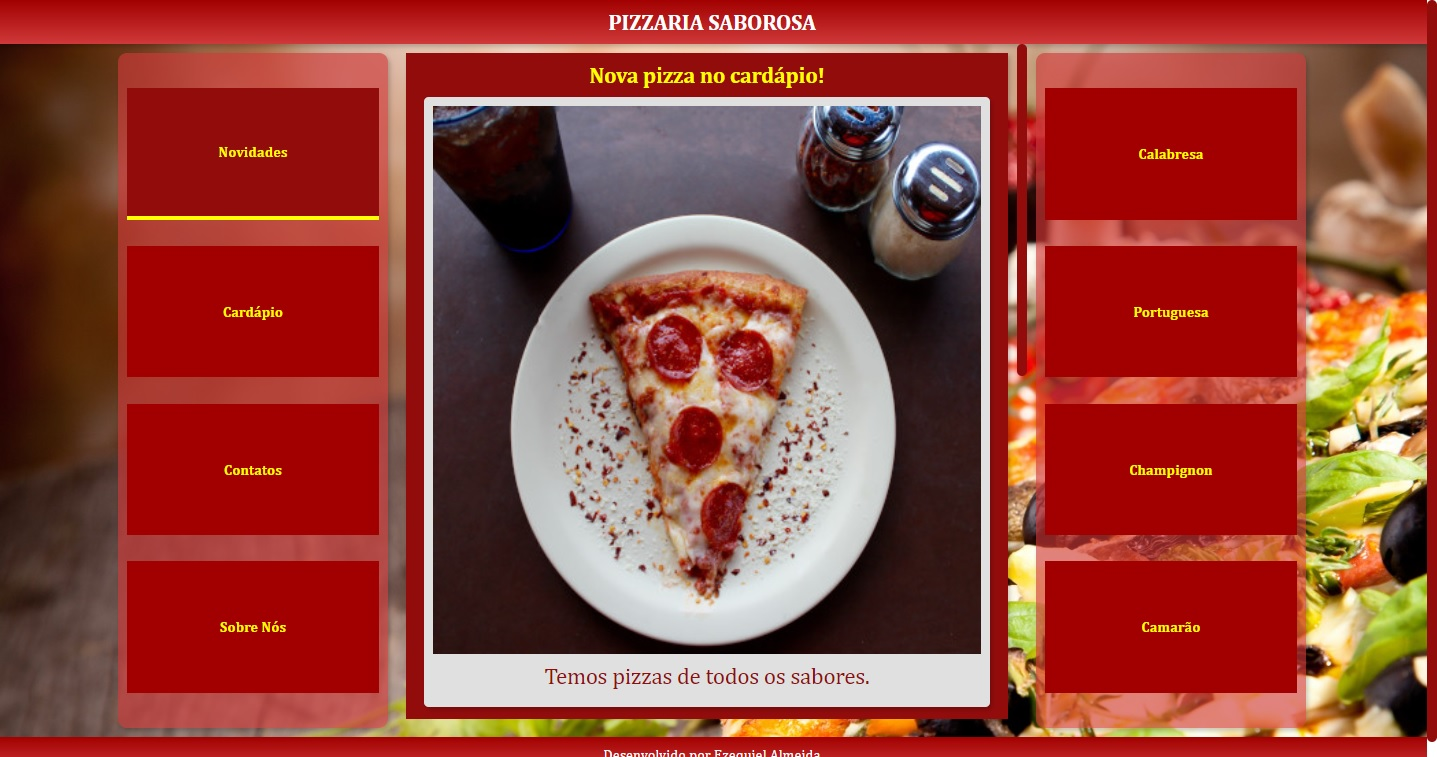
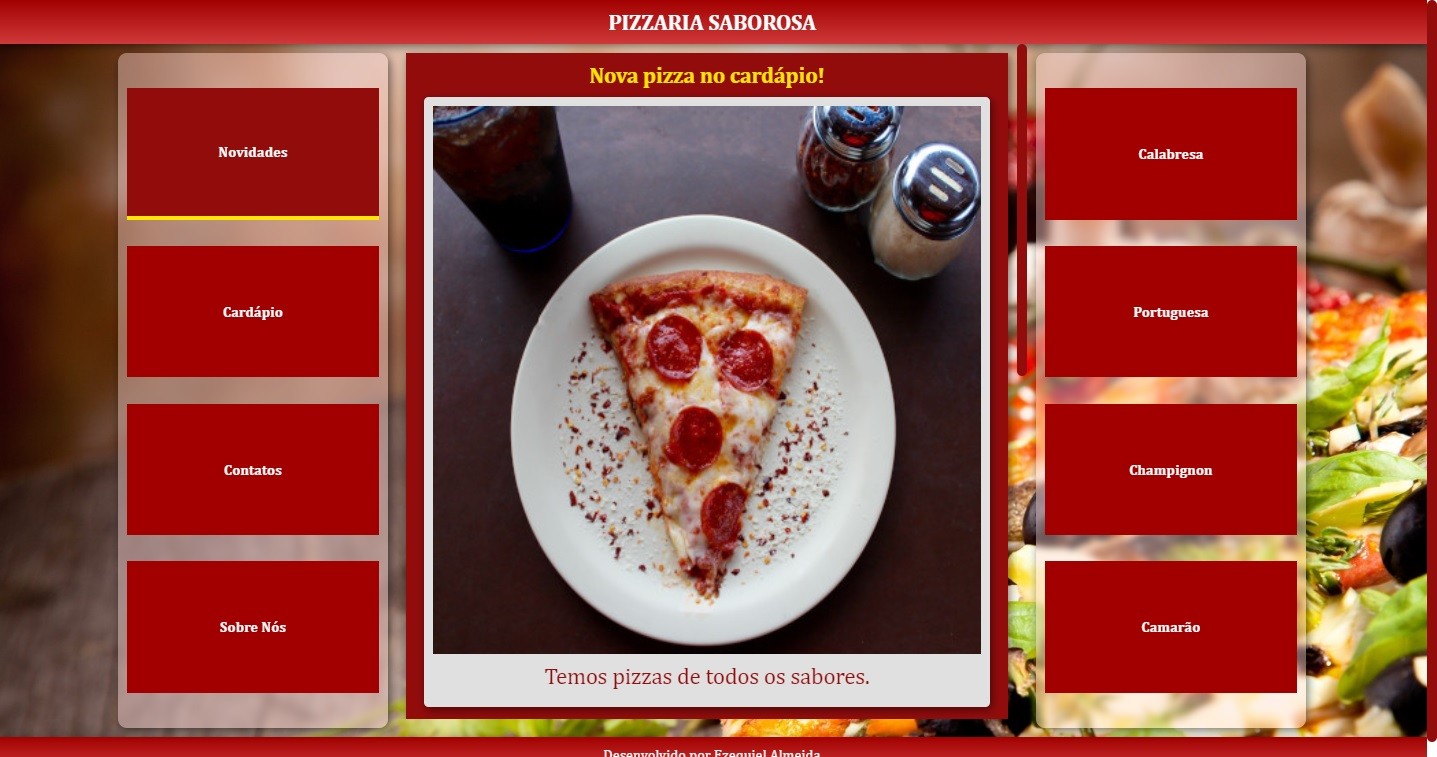
Smooth animation

diff --git a/assets/css/style.css b/assets/css/style.css
@@ -29,6 +29,7 @@
 }
 
 a {
+    transition-duration: .5s;
     font-weight: bold;
 }
 
@@ -57,6 +58,13 @@ header, footer {
     background-image: linear-gradient(to bottom, var(--color1), var(--color3));
 }
 
+header {
+    border-bottom: 10px solid var(--color4);
+    height: 50px;
+    border-bottom-left-radius: 50%;
+    border-bottom-right-radius: 50%;
+}
+
 header > *, footer > * {
     color: white;
 }
@@ -81,6 +89,7 @@ article > p {
     margin: 10px 0;
 }
 
+
 nav, article, section, aside {
     display: flex;
     flex-direction: column;
@@ -94,14 +103,14 @@ nav > *, aside > * {
     justify-content: center;
     background-color: var(--color1);
     padding: 5px;
-    height: 20%;
+    height: 100%;
     width: 100%;
 }
 
 div#scrollable {
     overflow-y: scroll;
     max-height: 750px;
-    width: 700px;
+    width: 50%;
 }
 
 nav, aside {
@@ -110,7 +119,12 @@ nav, aside {
     height: 750px;
     border-radius: 10px;
     backdrop-filter: blur(4px);
+    gap: 10px;
 }
+
+nav {
+    transition-duration: .5s;
+    }
 
 @media (max-width: 800px) {
 
@@ -125,19 +139,27 @@ nav, aside {
     }
 
     nav, aside {
-        background-color: var(--color3);
-        margin: 0;
         flex-direction: row;
         height: 50px;
         width: 100%;
+    }
+
+    aside {
+        margin: 0;
+        background-color: var(--color1);
+        border-bottom-left-radius: 0;
+        border-bottom-right-radius: 0;
         box-shadow: none;
-        border-top-left-radius: 0;
-        border-top-right-radius: 0;
     }
 
     nav > *, aside > * {
+        border-radius: 10px;
         width: 25%;
         height: 100%;
+    }
+
+    a:hover {
+        border: none;
     }
 
     div#scrollable {

diff --git a/index.html b/index.html
@@ -23,22 +23,22 @@
                 <h2>Nova pizza no cardápio!</h2>
                 <article>
                     <img src="assets/images/pizza2.jpg" alt="pizza">
-                    <p>Temos pizzas de todos os sabores.</p>
+                    <p>Experiente a nossa deliciosa pizza toscana</p>
                 </article>
             </section>
             <section>
-                <h2>Portuguesa</h2>
+                <h2>Portuguesa na promoção só hoje!</h2>
                 <article>
                     <img src="assets/images/pizza1.jpg" alt="Pizza Portuguesa">
-                    <p>Olhe para esta bela pizza portuguesa!</p>
+                    <p>Somente no dia de hoje as pizzas de Portuguesa pela metade do preço!!!</p>
                 </article>
             </section>
         </div>
         <aside>
+            <a href="#">Mussarela</a>
             <a href="#">Calabresa</a>
             <a href="#">Portuguesa</a>
-            <a href="#">Champignon</a>
-            <a href="#">Camarão</a>
+            <a href="#">Frango</a>
         </aside>
     </main>
     <footer>
